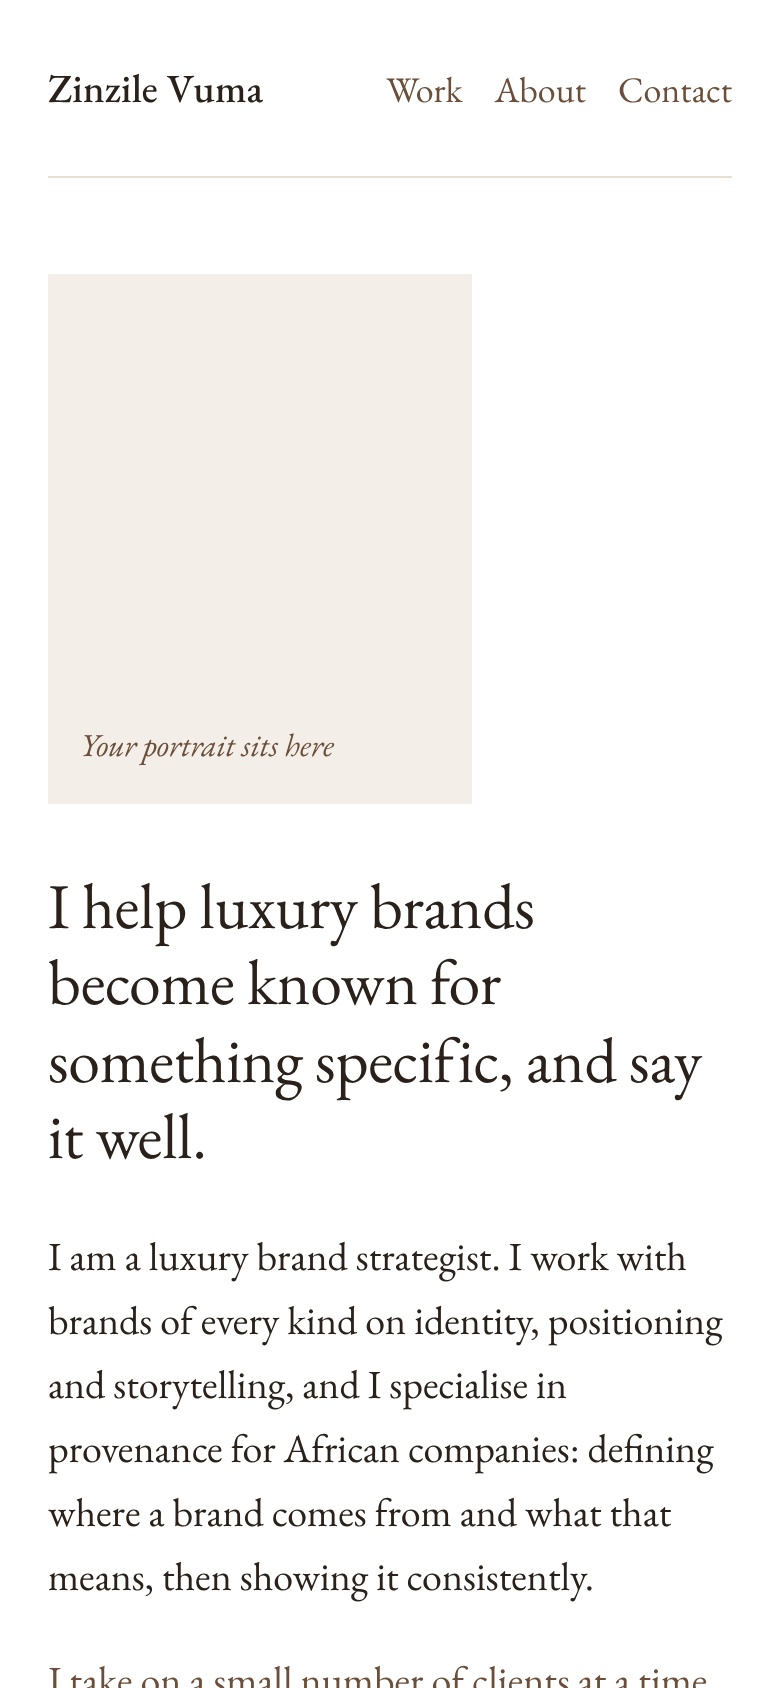
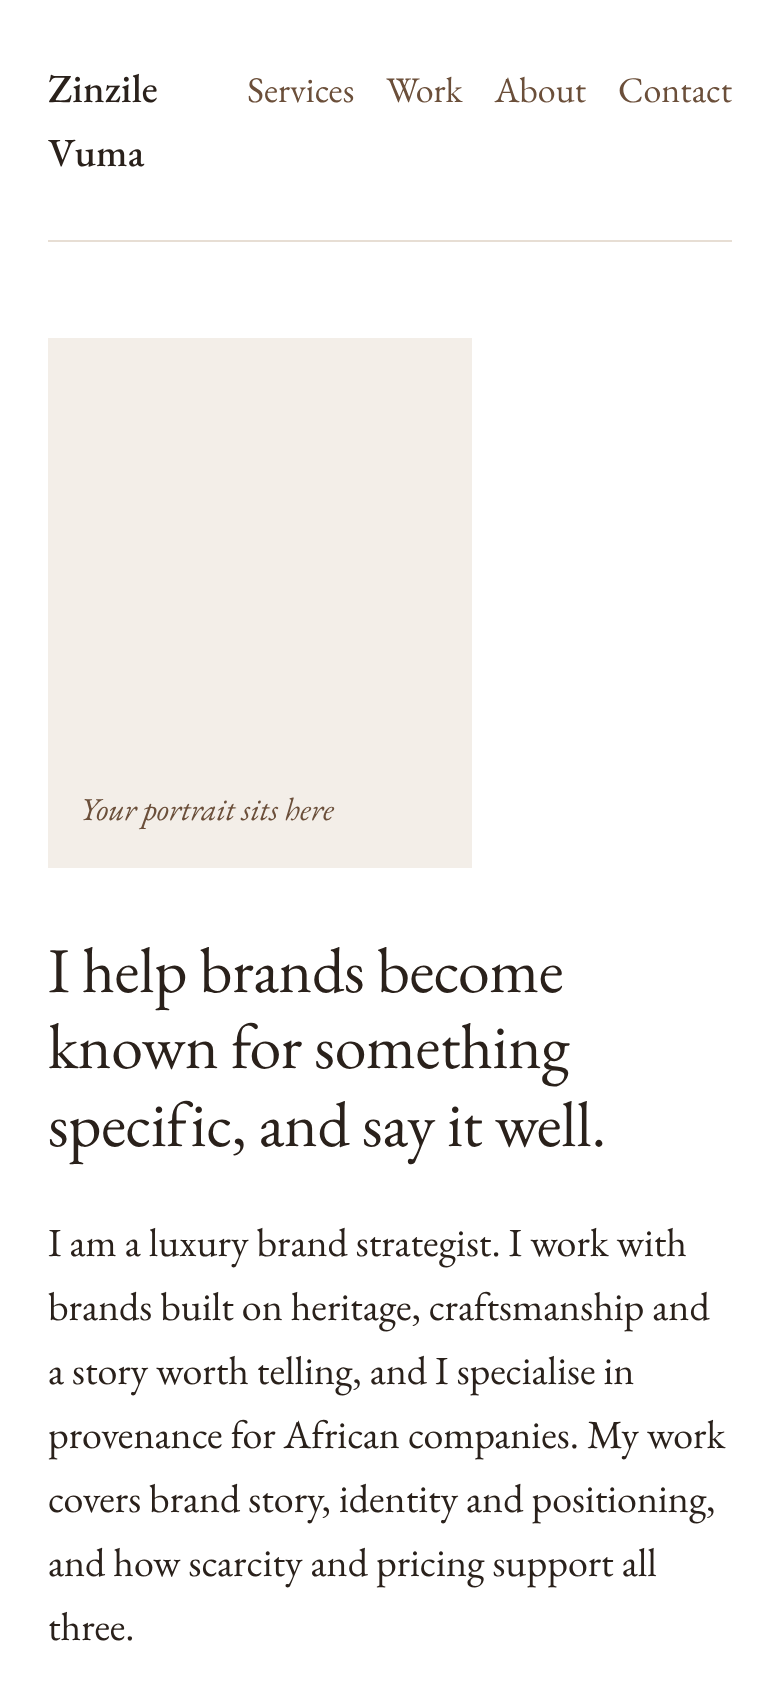
Reframe copy around heritage, craft, story, scarcity and pricing; add Services page draft in both directions
Claude-Session: https://claude.ai/code/session_015gCnZ4Qcr2szkeUrX614La

diff --git a/zinzilevuma/directions/services-b.html b/zinzilevuma/directions/services-b.html
@@ -1,0 +1,148 @@
+<!DOCTYPE html>
+<html lang="en-GB">
+<head>
+<meta charset="utf-8">
+<meta name="viewport" content="width=device-width, initial-scale=1">
+<title>Services | Zinzile Vuma (Direction B)</title>
+<link rel="preconnect" href="https://fonts.googleapis.com">
+<link rel="preconnect" href="https://fonts.gstatic.com" crossorigin>
+<link href="https://fonts.googleapis.com/css2?family=Source+Serif+4:opsz,wght@8..60,400;8..60,500&family=Libre+Franklin:wght@400;500&display=swap" rel="stylesheet">
+<style>
+  :root{--paper:#FFFFFF;--ink:#2B2420;--brown:#74533D;--rule:#E4DAD0}
+  *{box-sizing:border-box}
+  body{margin:0;background:var(--paper);color:var(--ink);font-family:"Libre Franklin",system-ui,sans-serif;font-size:1.125rem;line-height:1.7;-webkit-font-smoothing:antialiased}
+  a{color:inherit}
+  a:focus-visible{outline:2px solid var(--ink);outline-offset:3px}
+  header{max-width:80rem;margin:0 auto;padding:1.5rem;display:flex;justify-content:space-between;align-items:center;flex-wrap:wrap;gap:.75rem}
+  .name{font-family:"Source Serif 4",Georgia,serif;font-size:1.375rem;text-decoration:none}
+  nav ul{list-style:none;margin:0;padding:0;display:flex;flex-wrap:wrap;gap:.5rem 1.25rem}
+  nav a{text-decoration:none;font-size:1rem}
+  nav a:hover,nav a[aria-current]{color:var(--brown);text-decoration:underline;text-underline-offset:.3em}
+  main{max-width:80rem;margin:0 auto;padding:2rem 1.5rem 6rem}
+  h1,h2,h3,.types dt{font-family:"Source Serif 4",Georgia,serif;font-weight:400}
+  h1{font-size:clamp(2.25rem,5vw,3.5rem);line-height:1.1;margin:0 0 1.5rem;letter-spacing:-.01em}
+  .intro{max-width:44rem}
+  .lead{font-family:"Source Serif 4",Georgia,serif;font-size:1.375rem;line-height:1.5}
+  section{margin-top:4.5rem;padding-top:2.5rem;border-top:1px solid var(--rule)}
+  h2{font-size:clamp(1.75rem,3.5vw,2.25rem);line-height:1.2;margin:0 0 1rem}
+  h3{font-size:1.375rem;line-height:1.3;margin:2rem 0 .5rem;font-weight:500}
+  p{margin:0 0 1rem;max-width:40rem}
+  .types{margin:2rem 0 0;max-width:52rem}
+  .types dt{font-size:1.25rem;font-weight:500;margin-top:1.5rem}
+  .types dd{margin:.25rem 0 0}
+  .service{padding:1.75rem 0;border-bottom:1px solid var(--rule)}
+  .service:last-child{border-bottom:0}
+  .service h3{margin:0 0 .5rem}
+  .suits{color:var(--brown)}
+  .next{margin-top:2.5rem}
+  .cta{display:inline-block;background:var(--brown);color:#fff;text-decoration:none;padding:.95rem 1.6rem;font-size:1rem;font-weight:500;border-radius:2px}
+  .cta:hover{background:#5A3F2E}
+  .email a{text-underline-offset:.3em}
+  @media (min-width:60rem){
+    header{padding:2rem 3rem}
+    main{padding:3rem 3rem 7rem}
+    section{display:grid;grid-template-columns:18rem 1fr;column-gap:4rem}
+    section > *{grid-column:2}
+    section > h2{grid-column:1;grid-row:1 / span 20}
+    .service{display:grid;grid-template-columns:16rem 1fr;gap:2.5rem}
+    .types{display:grid;grid-template-columns:16rem 1fr;column-gap:2.5rem}
+    .types dt{margin-top:1.5rem}
+    .types dd{margin-top:1.5rem}
+    #how ~ h3{margin-top:2rem}
+  }
+</style>
+</head>
+<body>
+  <header>
+    <a class="name" href="b-split.html">Zinzile Vuma</a>
+    <nav aria-label="Main"><ul>
+      <li><a href="services-b.html" aria-current="page">Services</a></li>
+      <li><a href="#work">Work</a></li>
+      <li><a href="#about">About</a></li>
+      <li><a href="#contact">Contact</a></li>
+    </ul></nav>
+  </header>
+
+<main id="main">
+  <div class="intro">
+    <h1>Services</h1>
+    <p class="lead">I work with brands whose value rests on where they come from, how their things are made and the story behind them. Their customers are discerning. They notice the stitching, ask who made the piece and want to know why it is worth what it costs.</p>
+    <p>To a client like that, luxury is ease: the feeling that every detail has been considered. My work is to make sure the brand gives that feeling every time, in how it looks, speaks, presents itself and prices what it makes.</p>
+  </div>
+
+  <section aria-labelledby="who">
+    <h2 id="who">Who I work with</h2>
+    <p>Most of the businesses I work with fall into one of these groups. If yours does not, the call is still a good place to find out whether I can help.</p>
+    <dl class="types">
+      <dt>Makers and craft-led brands</dt>
+      <dd>Leather, textiles, jewellery, ceramics, furniture and homeware. Usually looking for a brand story that does justice to the craft, and pricing that reflects it.</dd>
+      <dt>Hospitality</dt>
+      <dd>Lodges, safari camps, boutique hotels and private villas. Usually looking to be known for something specific to their place, and to say it consistently from the website to the welcome.</dd>
+      <dt>Food and drink producers</dt>
+      <dd>Wine estates, coffee, tea, spirits and cacao. Usually looking to define their provenance clearly and present it to buyers abroad.</dd>
+      <dt>Fashion, fragrance and beauty</dt>
+      <dd>Labels built on local materials, ingredients or techniques. Usually looking for positioning and an identity that can stand next to established international names.</dd>
+      <dt>Family businesses and established names</dt>
+      <dd>Companies with real heritage that has never been written down or has been told inconsistently. Usually preparing for a new generation, a new market or a relaunch.</dd>
+    </dl>
+  </section>
+
+  <section aria-labelledby="what">
+    <h2 id="what">What I do</h2>
+
+    <div class="service">
+      <h3>Brand story and heritage</h3>
+      <div>
+        <p>I find and write the story that is already in the business: its origins, its people, its place and its craft. The result is a clear account of who you are that your team, your stockists and your customers can repeat.</p>
+        <p class="suits">Suits makers, family businesses and anyone whose story is strong but scattered.</p>
+      </div>
+    </div>
+
+    <div class="service">
+      <h3>Provenance</h3>
+      <div>
+        <p>Provenance is a popular word in African luxury, but few brands know how to express it. I help you define what your origin actually means, then make sure it shows consistently in how the brand looks, speaks and presents itself.</p>
+        <p class="suits">Suits African companies, especially producers, makers and hospitality brands tied to a particular region.</p>
+      </div>
+    </div>
+
+    <div class="service">
+      <h3>Brand identity</h3>
+      <div>
+        <p>How the brand looks and sounds: name, visual direction, tone of voice and the way it presents itself in person, in print and online. I set the direction and work alongside your designers so the result holds together.</p>
+        <p class="suits">Suits new brands, and established ones that have outgrown their first identity.</p>
+      </div>
+    </div>
+
+    <div class="service">
+      <h3>Positioning, scarcity and pricing</h3>
+      <div>
+        <p>Where the brand sits, who it is for and what it should become known for. This includes how rarity and price tell the same story: what to make in small numbers, what to keep available, and how to price so the value is clear rather than claimed.</p>
+        <p class="suits">Suits brands entering new markets, raising prices, or launching limited pieces or collections.</p>
+      </div>
+    </div>
+
+    <div class="service">
+      <h3>Ongoing advisory</h3>
+      <div>
+        <p>A standing arrangement for decisions as they come up: a launch, a collaboration, a new market, a change in price. You have someone who knows the brand well and can give a considered view quickly.</p>
+        <p class="suits">Suits founders and directors after a first project, or those who want a steady second opinion.</p>
+      </div>
+    </div>
+  </section>
+
+  <section aria-labelledby="how">
+    <h2 id="how">How we start</h2>
+    <h3>A 30-minute call</h3>
+    <p>The first call is for me to understand your business: what you make, who buys it, where you want to take it and what is getting in the way. It is not an advice session. I ask questions and listen. By the end we will both know whether working together makes sense.</p>
+    <h3>An assessment</h3>
+    <p>If it does, I look closely at the brand as it stands and come back with what I see, what I would change first and a clear proposal for the work.</p>
+    <h3>The work, then advisory</h3>
+    <p>We work through the agreed project together. Afterwards, some clients keep me on in an advisory role. Every client receives the same care I help them give their own customers.</p>
+    <p class="next"><a class="cta" href="#contact">Book a 30-minute call</a></p>
+    <p class="email">Or write to me at <a href="mailto:enquiries@zinzilevuma.com">enquiries@zinzilevuma.com</a></p>
+  </section>
+</main>
+
+</body>
+</html>

diff --git a/zinzilevuma/directions/services-a.html b/zinzilevuma/directions/services-a.html
@@ -1,0 +1,135 @@
+<!DOCTYPE html>
+<html lang="en-GB">
+<head>
+<meta charset="utf-8">
+<meta name="viewport" content="width=device-width, initial-scale=1">
+<title>Services | Zinzile Vuma (Direction A)</title>
+<link rel="preconnect" href="https://fonts.googleapis.com">
+<link rel="preconnect" href="https://fonts.gstatic.com" crossorigin>
+<link href="https://fonts.googleapis.com/css2?family=EB+Garamond:ital,wght@0,400;0,500;1,400&display=swap" rel="stylesheet">
+<style>
+  :root{--paper:#FFFFFF;--ink:#2A211B;--brown:#6B4F3A;--rule:#E7DED4}
+  *{box-sizing:border-box}
+  body{margin:0;background:var(--paper);color:var(--ink);font-family:"EB Garamond",Garamond,serif;font-size:1.25rem;line-height:1.6;-webkit-font-smoothing:antialiased}
+  a{color:inherit}
+  a:focus-visible{outline:2px solid var(--ink);outline-offset:3px}
+  .wrap{max-width:68rem;margin:0 auto;padding:0 1.5rem}
+  header{display:flex;justify-content:space-between;align-items:baseline;flex-wrap:wrap;gap:.75rem;padding:1.75rem 0;border-bottom:1px solid var(--rule)}
+  .name{font-size:1.375rem;font-weight:500;text-decoration:none}
+  nav ul{list-style:none;margin:0;padding:0;display:flex;flex-wrap:wrap;gap:.5rem 1.25rem}
+  nav a{text-decoration:none;color:var(--brown);font-size:1.125rem}
+  nav a:hover,nav a[aria-current]{color:var(--ink);text-decoration:underline;text-underline-offset:.25em}
+  main{max-width:40rem;padding:3.5rem 0 6rem}
+  h1{font-weight:400;font-size:clamp(2.25rem,5vw,3rem);line-height:1.15;margin:0 0 1.5rem}
+  .lead{font-size:1.4rem;line-height:1.5}
+  section{margin-top:4rem;padding-top:2.5rem;border-top:1px solid var(--rule)}
+  h2{font-weight:400;font-size:clamp(1.75rem,3.5vw,2.125rem);line-height:1.2;margin:0 0 1rem}
+  h3{font-weight:500;font-size:1.375rem;line-height:1.3;margin:2.25rem 0 .5rem}
+  p{margin:0 0 1rem}
+  .types{margin:2rem 0 0}
+  .types dt{font-weight:500;margin-top:1.5rem}
+  .types dd{margin:.25rem 0 0}
+  .service h3{margin-top:2.5rem}
+  .suits{color:var(--brown);font-style:italic}
+  .cta{font-size:1.25rem;text-decoration:underline;text-decoration-color:var(--brown);text-underline-offset:.3em;text-decoration-thickness:1px}
+  .cta:hover{text-decoration-thickness:2px}
+  .next{margin-top:2.5rem}
+  .email{color:var(--brown)}
+</style>
+</head>
+<body>
+<div class="wrap">
+  <header>
+    <a class="name" href="a-letter.html">Zinzile Vuma</a>
+    <nav aria-label="Main"><ul>
+      <li><a href="services-a.html" aria-current="page">Services</a></li>
+      <li><a href="#work">Work</a></li>
+      <li><a href="#about">About</a></li>
+      <li><a href="#contact">Contact</a></li>
+    </ul></nav>
+  </header>
+
+<main id="main">
+  <div class="intro">
+    <h1>Services</h1>
+    <p class="lead">I work with brands whose value rests on where they come from, how their things are made and the story behind them. Their customers are discerning. They notice the stitching, ask who made the piece and want to know why it is worth what it costs.</p>
+    <p>To a client like that, luxury is ease: the feeling that every detail has been considered. My work is to make sure the brand gives that feeling every time, in how it looks, speaks, presents itself and prices what it makes.</p>
+  </div>
+
+  <section aria-labelledby="who">
+    <h2 id="who">Who I work with</h2>
+    <p>Most of the businesses I work with fall into one of these groups. If yours does not, the call is still a good place to find out whether I can help.</p>
+    <dl class="types">
+      <dt>Makers and craft-led brands</dt>
+      <dd>Leather, textiles, jewellery, ceramics, furniture and homeware. Usually looking for a brand story that does justice to the craft, and pricing that reflects it.</dd>
+      <dt>Hospitality</dt>
+      <dd>Lodges, safari camps, boutique hotels and private villas. Usually looking to be known for something specific to their place, and to say it consistently from the website to the welcome.</dd>
+      <dt>Food and drink producers</dt>
+      <dd>Wine estates, coffee, tea, spirits and cacao. Usually looking to define their provenance clearly and present it to buyers abroad.</dd>
+      <dt>Fashion, fragrance and beauty</dt>
+      <dd>Labels built on local materials, ingredients or techniques. Usually looking for positioning and an identity that can stand next to established international names.</dd>
+      <dt>Family businesses and established names</dt>
+      <dd>Companies with real heritage that has never been written down or has been told inconsistently. Usually preparing for a new generation, a new market or a relaunch.</dd>
+    </dl>
+  </section>
+
+  <section aria-labelledby="what">
+    <h2 id="what">What I do</h2>
+
+    <div class="service">
+      <h3>Brand story and heritage</h3>
+      <div>
+        <p>I find and write the story that is already in the business: its origins, its people, its place and its craft. The result is a clear account of who you are that your team, your stockists and your customers can repeat.</p>
+        <p class="suits">Suits makers, family businesses and anyone whose story is strong but scattered.</p>
+      </div>
+    </div>
+
+    <div class="service">
+      <h3>Provenance</h3>
+      <div>
+        <p>Provenance is a popular word in African luxury, but few brands know how to express it. I help you define what your origin actually means, then make sure it shows consistently in how the brand looks, speaks and presents itself.</p>
+        <p class="suits">Suits African companies, especially producers, makers and hospitality brands tied to a particular region.</p>
+      </div>
+    </div>
+
+    <div class="service">
+      <h3>Brand identity</h3>
+      <div>
+        <p>How the brand looks and sounds: name, visual direction, tone of voice and the way it presents itself in person, in print and online. I set the direction and work alongside your designers so the result holds together.</p>
+        <p class="suits">Suits new brands, and established ones that have outgrown their first identity.</p>
+      </div>
+    </div>
+
+    <div class="service">
+      <h3>Positioning, scarcity and pricing</h3>
+      <div>
+        <p>Where the brand sits, who it is for and what it should become known for. This includes how rarity and price tell the same story: what to make in small numbers, what to keep available, and how to price so the value is clear rather than claimed.</p>
+        <p class="suits">Suits brands entering new markets, raising prices, or launching limited pieces or collections.</p>
+      </div>
+    </div>
+
+    <div class="service">
+      <h3>Ongoing advisory</h3>
+      <div>
+        <p>A standing arrangement for decisions as they come up: a launch, a collaboration, a new market, a change in price. You have someone who knows the brand well and can give a considered view quickly.</p>
+        <p class="suits">Suits founders and directors after a first project, or those who want a steady second opinion.</p>
+      </div>
+    </div>
+  </section>
+
+  <section aria-labelledby="how">
+    <h2 id="how">How we start</h2>
+    <h3>A 30-minute call</h3>
+    <p>The first call is for me to understand your business: what you make, who buys it, where you want to take it and what is getting in the way. It is not an advice session. I ask questions and listen. By the end we will both know whether working together makes sense.</p>
+    <h3>An assessment</h3>
+    <p>If it does, I look closely at the brand as it stands and come back with what I see, what I would change first and a clear proposal for the work.</p>
+    <h3>The work, then advisory</h3>
+    <p>We work through the agreed project together. Afterwards, some clients keep me on in an advisory role. Every client receives the same care I help them give their own customers.</p>
+    <p class="next"><a class="cta" href="#contact">Book a 30-minute call</a></p>
+    <p class="email">Or write to me at <a href="mailto:enquiries@zinzilevuma.com">enquiries@zinzilevuma.com</a></p>
+  </section>
+</main>
+
+</div>
+</body>
+</html>

diff --git a/zinzilevuma/directions/b-split.html b/zinzilevuma/directions/b-split.html
@@ -55,6 +55,7 @@
   <header>
     <a class="name" href="/">Zinzile Vuma</a>
     <nav aria-label="Main"><ul>
+      <li><a href="services-b.html">Services</a></li>
       <li><a href="#work">Work</a></li>
       <li><a href="#about">About</a></li>
       <li><a href="#contact">Contact</a></li>
@@ -63,11 +64,11 @@
   <main class="hero">
     <div>
       <p class="role">Luxury brand strategist</p>
-      <h1>I help luxury brands become clear about who they are and how they are known.</h1>
-      <p class="body">I work with brands of every kind on identity, positioning and storytelling. I specialise in provenance for African companies: defining it first, then showing it in how a brand looks, speaks and presents itself. I take on a small number of clients at a time.</p>
+      <h1>I help brands with real heritage, craft and story become known for them.</h1>
+      <p class="body">I work with founders and directors on brand story, identity and positioning, and on how scarcity and pricing support them, for customers who notice how things are made. I specialise in provenance for African companies. I take on a small number of clients at a time.</p>
       <div class="actions">
-        <a class="btn" href="#contact">Book a consultation</a>
-        <a class="quiet" href="#work">See my concept studies</a>
+        <a class="btn" href="#contact">Book a 30-minute call</a>
+        <a class="quiet" href="services-b.html">See services</a>
       </div>
     </div>
     <div class="portrait" role="img" aria-label="Portrait of Zinzile Vuma">Your portrait sits here</div>

diff --git a/zinzilevuma/directions/a-letter.html b/zinzilevuma/directions/a-letter.html
@@ -52,6 +52,7 @@
   <header>
     <a class="name" href="/">Zinzile Vuma</a>
     <nav aria-label="Main"><ul>
+      <li><a href="services-a.html">Services</a></li>
       <li><a href="#work">Work</a></li>
       <li><a href="#about">About</a></li>
       <li><a href="#contact">Contact</a></li>
@@ -60,10 +61,10 @@
   <main class="hero">
     <div class="portrait" role="img" aria-label="Portrait of Zinzile Vuma">Your portrait sits here</div>
     <div>
-      <h1>I help luxury brands become known for something specific, and say it well.</h1>
-      <p class="lede">I am a luxury brand strategist. I work with brands of every kind on identity, positioning and storytelling, and I specialise in provenance for African companies: defining where a brand comes from and what that means, then showing it consistently.</p>
+      <h1>I help brands become known for something specific, and say it well.</h1>
+      <p class="lede">I am a luxury brand strategist. I work with brands built on heritage, craftsmanship and a story worth telling, and I specialise in provenance for African companies. My work covers brand story, identity and positioning, and how scarcity and pricing support all three.</p>
       <p class="lede">I take on a small number of clients at a time, so each one has my full attention.</p>
-      <a class="cta" href="#contact">Book a first conversation</a>
+      <a class="cta" href="#contact">Book a 30-minute call</a>
     </div>
   </main>
 </div>
